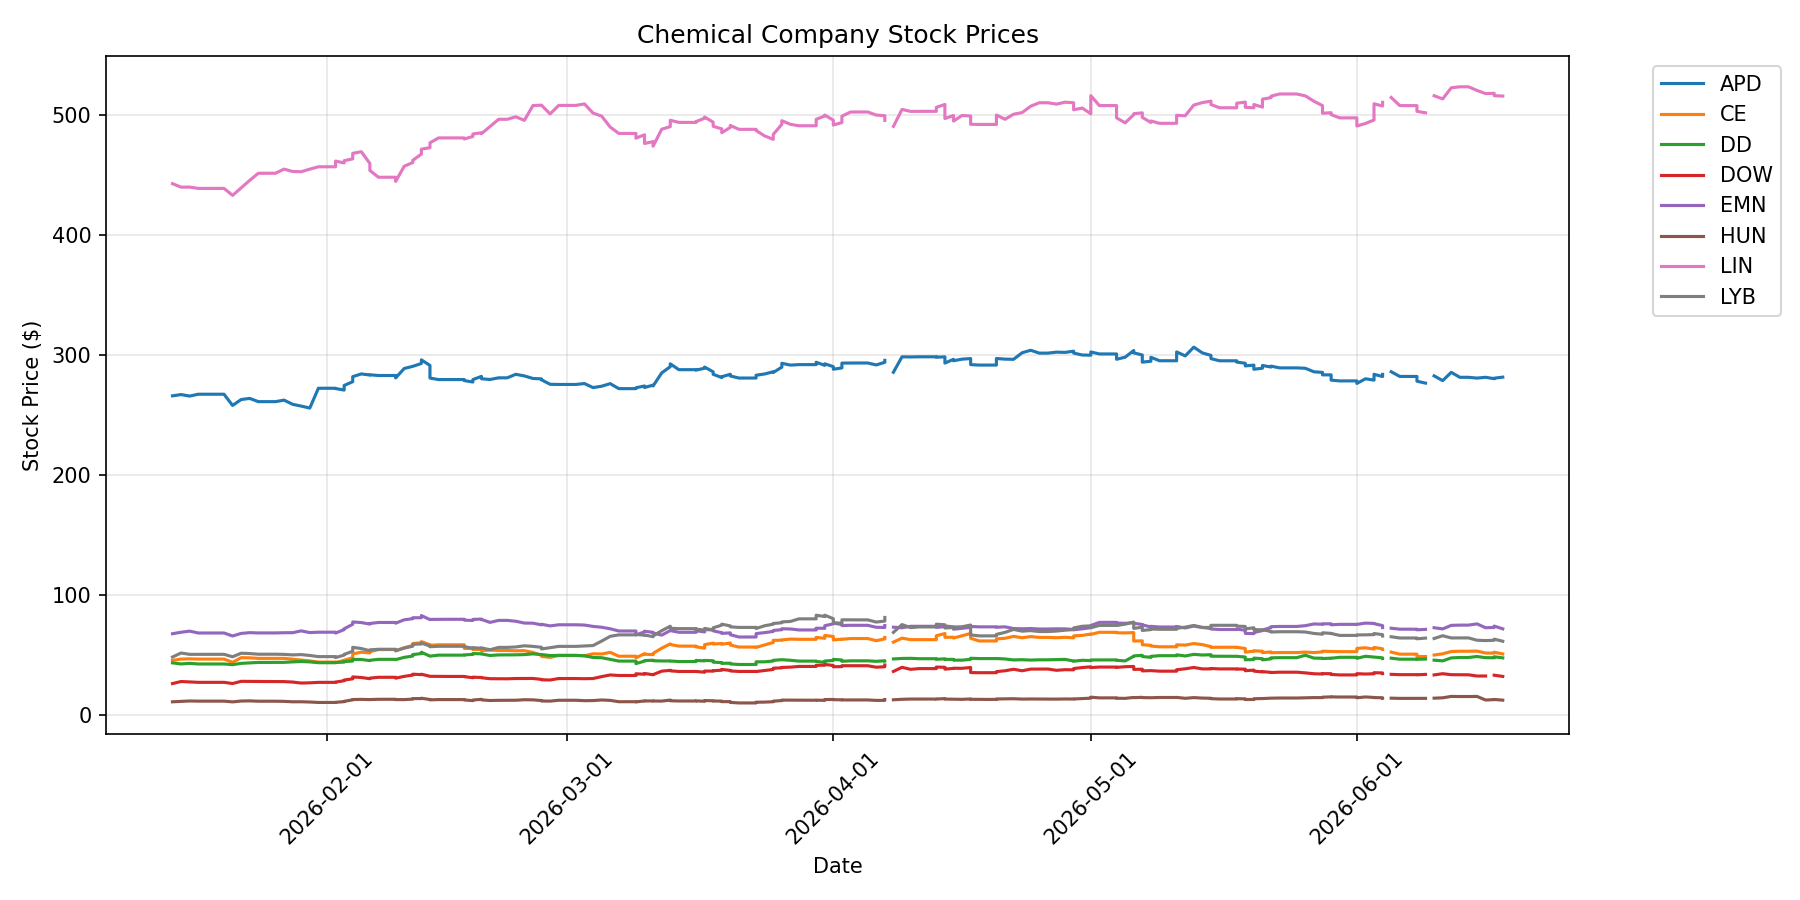
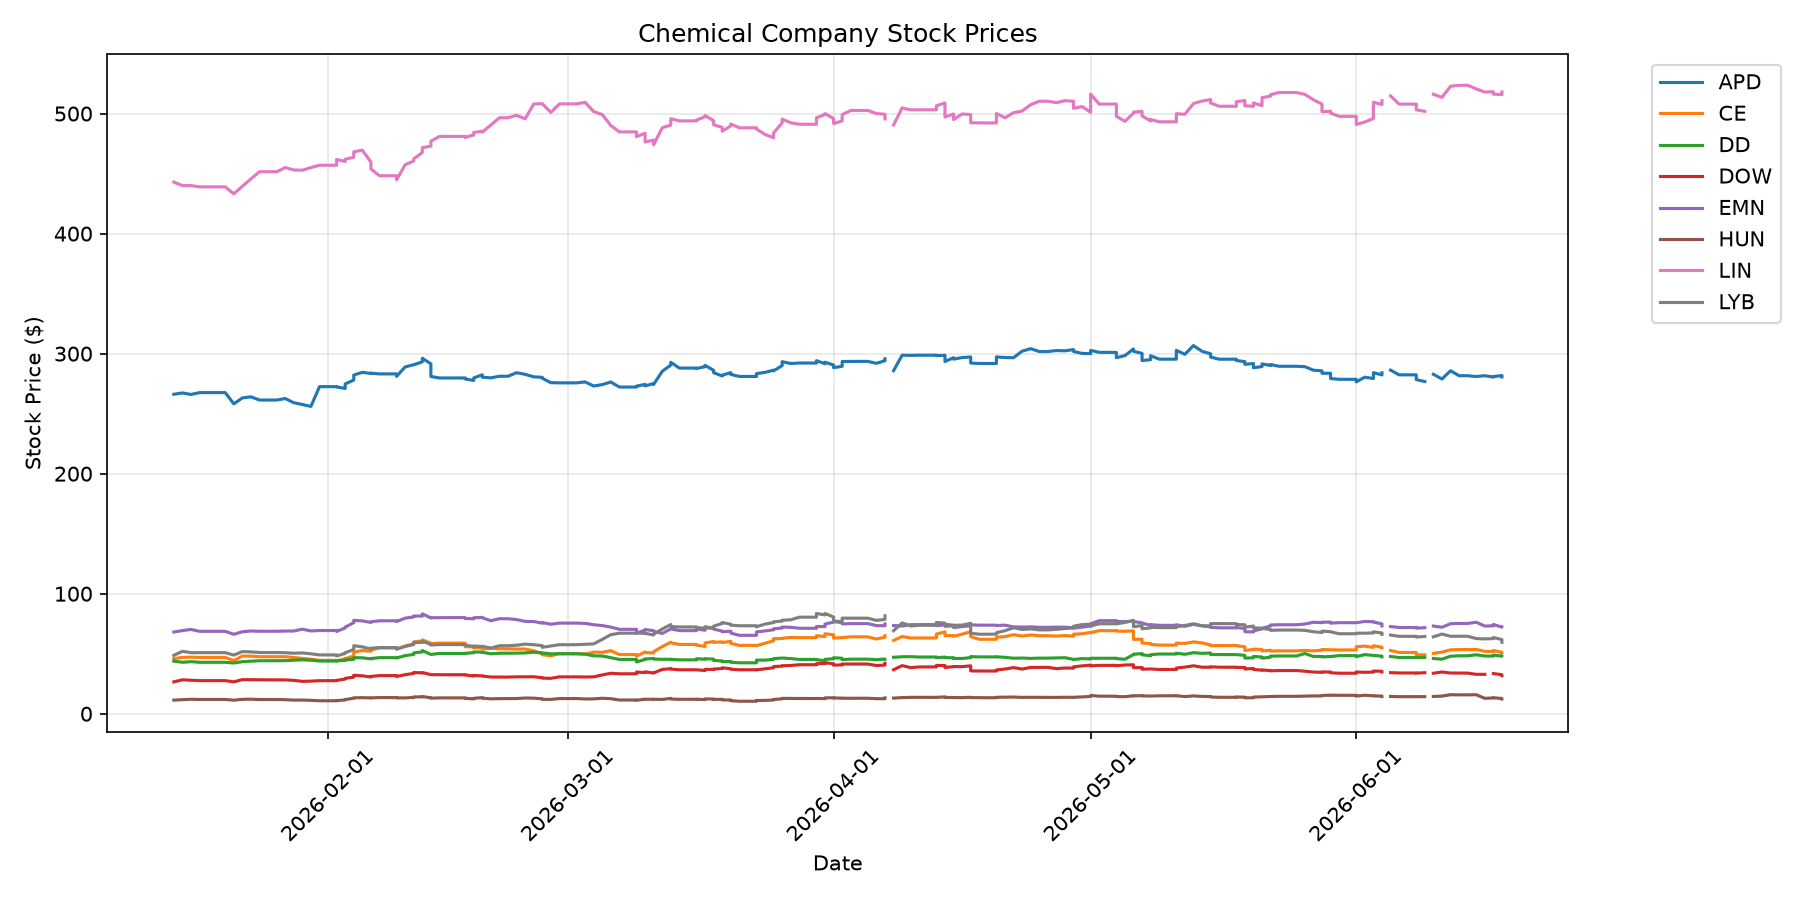
Daily price update: 2026-06-18

diff --git a/README.md b/README.md
@@ -8,23 +8,23 @@ Automated daily tracking of chemical commodity prices and chemical company stock
 
 | Commodity | Price | Change (24h) | Unit |
 |-----------|-------|--------------|------|
-| WTI Crude Oil | $76.79 | +0.00 (+0.00%) | $/barrel |
-| Brent Crude Oil | $79.55 | +0.00 (+0.00%) | $/barrel |
-| Natural Gas | $3.14 | +0.00 (+0.00%) | $/MMBtu |
-| Heating Oil | $3.19 | +0.00 (+0.00%) | $/gallon |
+| WTI Crude Oil | $73.27 | -3.52 (-4.58%) | $/barrel |
+| Brent Crude Oil | $76.99 | -2.56 (-3.22%) | $/barrel |
+| Natural Gas | $3.15 | +0.01 (+0.29%) | $/MMBtu |
+| Heating Oil | $3.01 | -0.18 (-5.78%) | $/gallon |
 
 ### Chemical Company Stocks
 
 | Company | Ticker | Price | Change (24h) |
 |---------|--------|-------|--------------|
-| Dow Inc. | DOW | $32.50 | -0.46 (-1.40%) |
-| LyondellBasell | LYB | $61.81 | -0.78 (-1.25%) |
-| DuPont | DD | $47.95 | -0.09 (-0.19%) |
-| Air Products | APD | $281.75 | +1.27 (+0.45%) |
-| Linde | LIN | $515.85 | -2.32 (-0.45%) |
-| Eastman Chemical | EMN | $72.12 | -1.16 (-1.58%) |
-| Celanese | CE | $51.23 | -0.70 (-1.35%) |
-| Huntsman | HUN | $12.73 | -0.45 (-3.41%) |
+| Dow Inc. | DOW | $31.65 | -0.85 (-2.63%) |
+| LyondellBasell | LYB | $59.56 | -2.25 (-3.64%) |
+| DuPont | DD | $48.03 | +0.08 (+0.18%) |
+| Air Products | APD | $280.57 | -1.18 (-0.42%) |
+| Linde | LIN | $517.96 | +2.11 (+0.41%) |
+| Eastman Chemical | EMN | $72.26 | +0.14 (+0.19%) |
+| Celanese | CE | $51.05 | -0.18 (-0.35%) |
+| Huntsman | HUN | $12.27 | -0.46 (-3.61%) |
 
 ## Data Sources
 

diff --git a/logs/update_log.md b/logs/update_log.md
@@ -260,3 +260,4 @@ Daily updates to the chemical engineering data repository.
 - **2026-06-17 00:30:56**: Updated 4 energy prices, 8 stocks, 0 FRED series
 - **2026-06-17 15:02:22**: Updated 4 energy prices, 8 stocks, 0 FRED series
 - **2026-06-18 00:00:05**: Updated 4 energy prices, 8 stocks, 0 FRED series
+- **2026-06-18 15:01:07**: Updated 4 energy prices, 8 stocks, 0 FRED series
